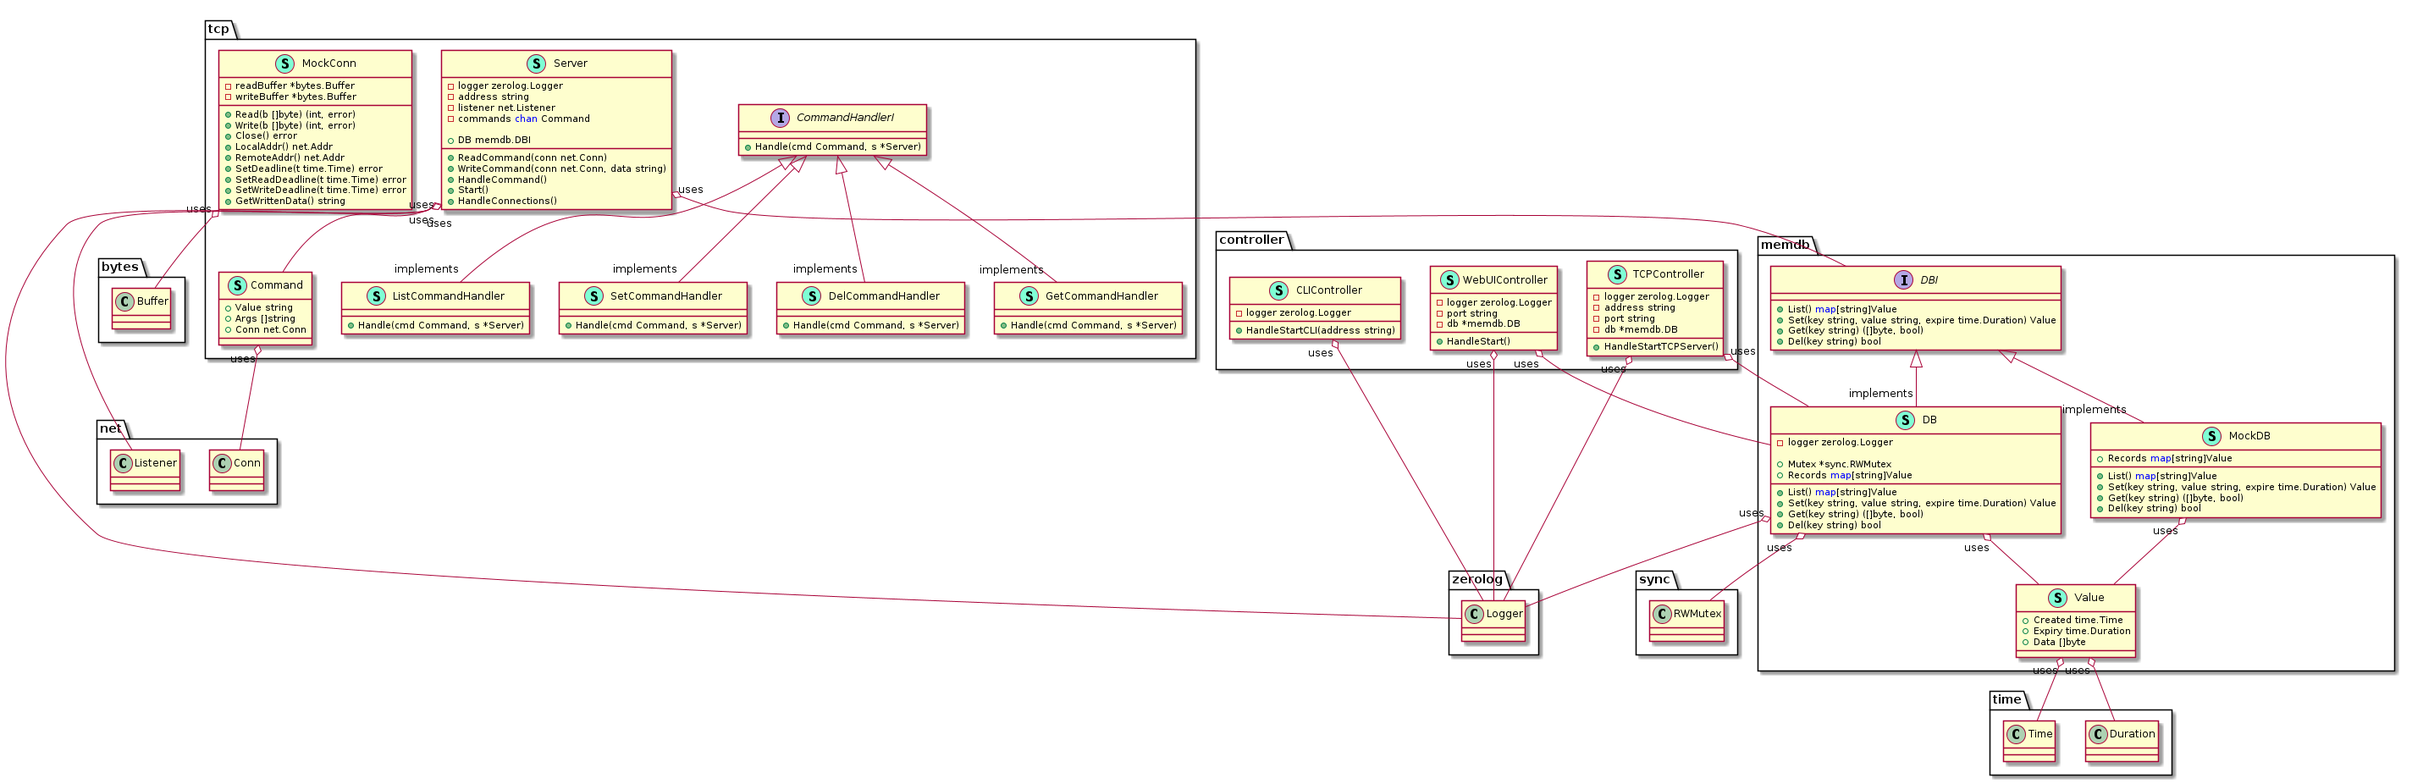
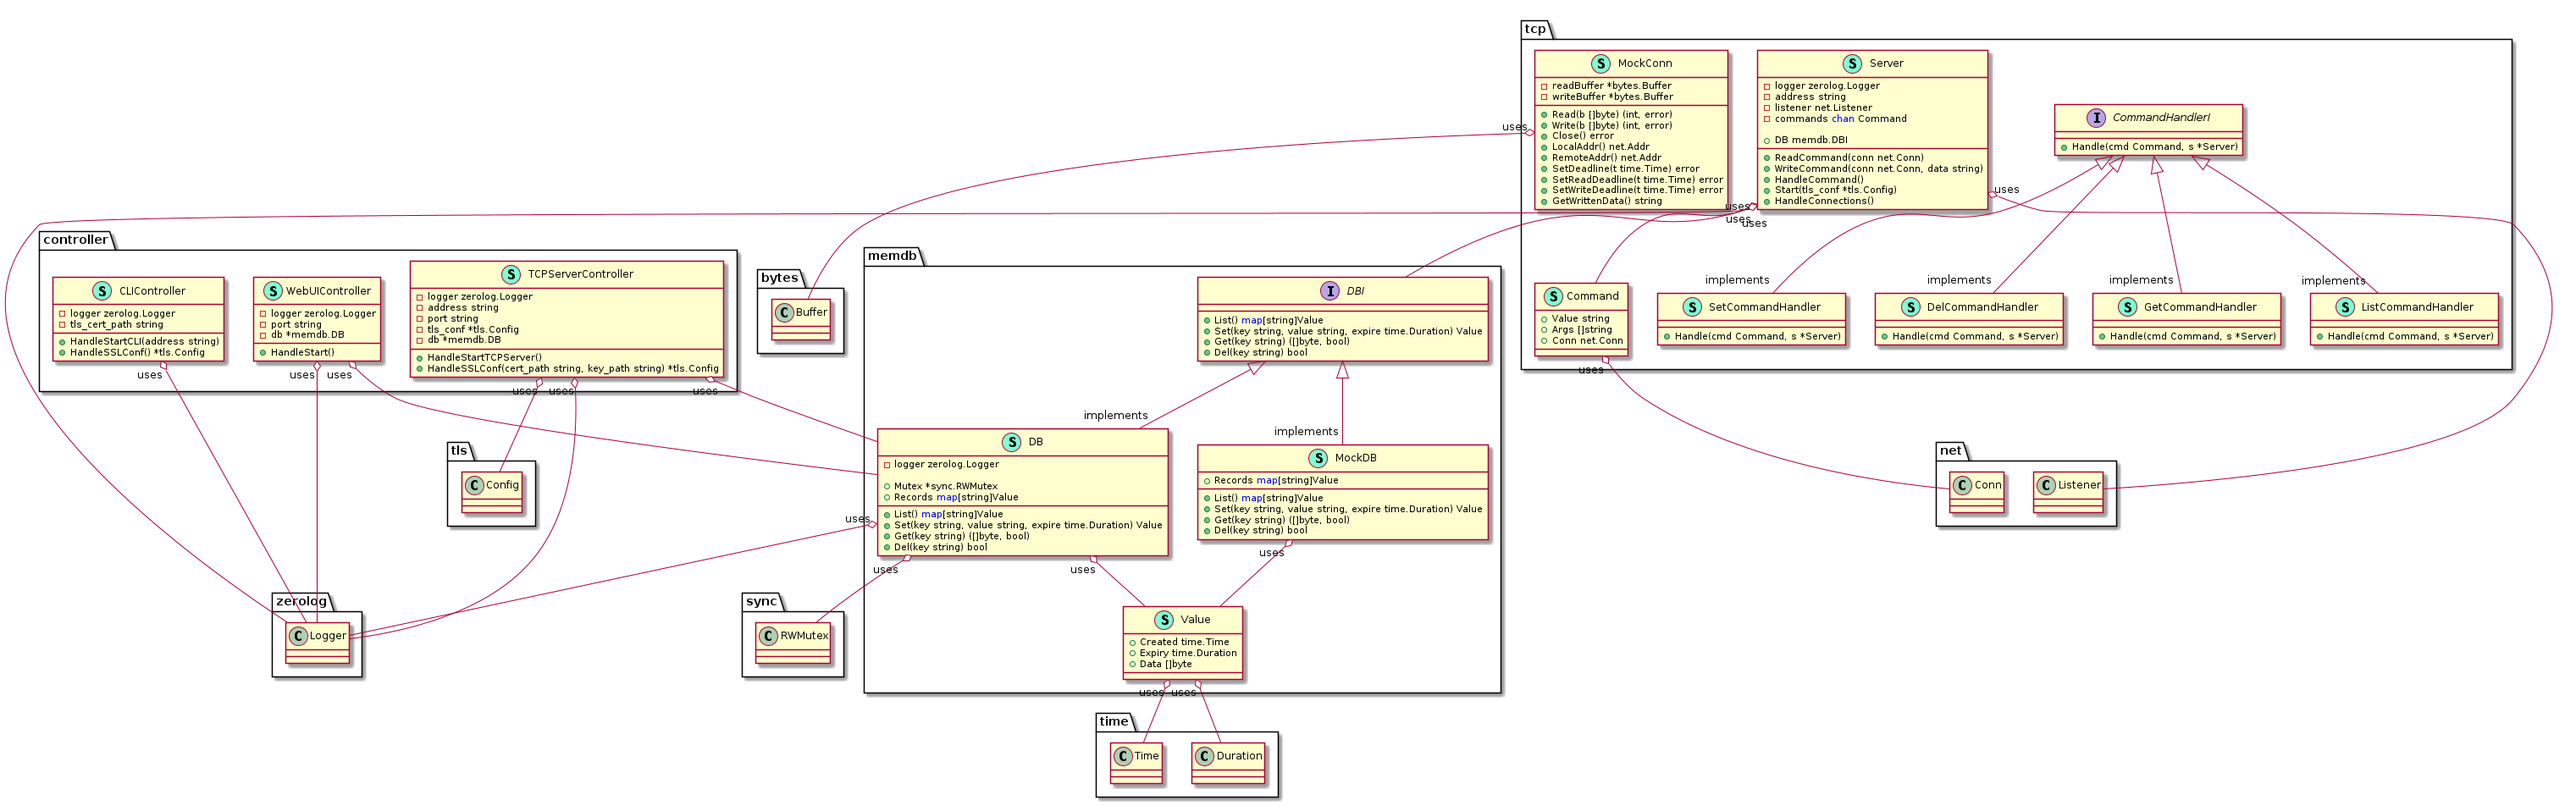
added TLS out of interest

diff --git a/internal/adapter/controller/cli_controller.go b/internal/adapter/controller/cli_controller.go
@@ -1,10 +1,11 @@
 package controller
 
 import (
+	"crypto/tls"
+	"crypto/x509"
 	"fmt"
 	"io"
 	"log"
-	"net"
 	"os"
 	"strings"
 
@@ -13,24 +14,27 @@ import (
 )
 
 type CLIController struct {
-	logger zerolog.Logger
+	logger        zerolog.Logger
+	tls_cert_path string
 }
 
-func NewCLIController(logger zerolog.Logger) CLIController {
+func NewCLIController(logger zerolog.Logger, tls_cert_path string) CLIController {
 	return CLIController{
-		logger: logger,
+		logger:        logger,
+		tls_cert_path: tls_cert_path,
 	}
 }
 
 func (c *CLIController) HandleStartCLI(address string) {
-	conn, err := net.Dial("tcp", address)
+	ssl_config := c.HandleSSLConf()
+
+	conn, err := tls.Dial("tcp", address, ssl_config)
 	if err != nil {
 		fmt.Printf("Failed to connect to server: %v\n", err)
 		os.Exit(1)
 	}
 	defer conn.Close()
 
-	// Create a new readline instance
 	rl, err := readline.NewEx(&readline.Config{
 		Prompt:          "> ",
 		HistoryFile:     "/tmp/readline.tmp",
@@ -44,7 +48,6 @@ func (c *CLIController) HandleStartCLI(address string) {
 	defer rl.Close()
 
 	for {
-		// Read input from the user
 		line, err := rl.Readline()
 		if err == readline.ErrInterrupt {
 			if len(line) == 0 {
@@ -58,55 +61,35 @@ func (c *CLIController) HandleStartCLI(address string) {
 			c.logger.Fatal().Err(err).Msg("Failed to read line")
 		}
 
-		// Trim whitespace and check for exit command
 		line = strings.TrimSpace(line)
 		if line == "exit" {
 			break
 		}
 
-		// Send the command to the TCP server
 		_, err = fmt.Fprintf(conn, "%s\n", line)
 		if err != nil {
 			log.Fatalf("Failed to send command: %v", err)
 		}
 
-		// Read the response from the server
 		response := make([]byte, 4096)
 		n, err := conn.Read(response)
 		if err != nil {
 			log.Fatalf("Failed to read response: %v", err)
 		}
 
-		// Print the server's response
 		fmt.Println(string(response[:n]))
 	}
+}
 
-	// reader := bufio.NewReader(os.Stdin)
-	// fmt.Println("Connected to server. Type commands:")
+func (c *CLIController) HandleSSLConf() *tls.Config {
+	certPool := x509.NewCertPool()
+	serverCert, err := os.ReadFile(c.tls_cert_path)
+	if err != nil {
+		c.logger.Fatal().Err(err).Msg("Cannot find TLS cert path")
+	}
+	certPool.AppendCertsFromPEM(serverCert)
 
-	// for {
-	// 	fmt.Print("> ")
-	// 	input, _ := reader.ReadString('\n')
-	// 	input = strings.TrimSpace(input)
-	// 	if input == "" {
-	// 		continue
-	// 	}
-	// 	if input == "exit" {
-	// 		break
-	// 	}
-
-	// 	_, err := conn.Write([]byte(input + "\n"))
-	// 	if err != nil {
-	// 		fmt.Printf("Failed to send command: %v\n", err)
-	// 		break
-	// 	}
-
-	// 	response, err := bufio.NewReader(conn).ReadString('\n')
-
-	// 	if err != nil {
-	// 		fmt.Printf("Failed to read response: %v\n", err)
-	// 		break
-	// 	}
-	// 	fmt.Println(strings.TrimSpace(response))
-	// }
+	return &tls.Config{
+		RootCAs: certPool,
+	}
 }

diff --git a/internal/adapter/controller/tcp_server_controller.go b/internal/adapter/controller/tcp_server_controller.go
@@ -1,0 +1,56 @@
+package controller
+
+import (
+	"crypto/tls"
+	"crypto/x509"
+	"fmt"
+	"os"
+
+	"github.com/gijsdb/go-mem-db/internal/memdb"
+	"github.com/gijsdb/go-mem-db/internal/tcp"
+	"github.com/rs/zerolog"
+)
+
+type TCPServerController struct {
+	logger   zerolog.Logger
+	address  string
+	port     string
+	tls_conf *tls.Config
+	db       *memdb.DB
+}
+
+func NewTCPServerController(logger zerolog.Logger, address string, port string, ssl_cert_path string, ssl_key_path string, db *memdb.DB) TCPServerController {
+	c := TCPServerController{
+		logger:  logger,
+		address: address,
+		port:    port,
+		db:      db,
+	}
+	c.tls_conf = c.HandleSSLConf(ssl_cert_path, ssl_key_path)
+
+	return c
+}
+
+func (c *TCPServerController) HandleStartTCPServer() {
+	s := tcp.NewServer(fmt.Sprintf("%s:%s", c.address, c.port), c.db, c.logger)
+	s.Start(c.tls_conf)
+}
+
+func (s *TCPServerController) HandleSSLConf(cert_path, key_path string) *tls.Config {
+	cert, err := tls.LoadX509KeyPair(cert_path, key_path)
+	if err != nil {
+		s.logger.Fatal().Err(err).Msg("server cannot load SSL key pair")
+	}
+
+	certPool := x509.NewCertPool()
+	serverCert, err := os.ReadFile("cert.pem")
+	if err != nil {
+		s.logger.Fatal().Err(err).Msg("server cannot read SSL cert")
+	}
+	certPool.AppendCertsFromPEM(serverCert)
+
+	return &tls.Config{
+		Certificates: []tls.Certificate{cert},
+		ClientCAs:    certPool,
+	}
+}

diff --git a/cmd/server/main.go b/cmd/server/main.go
@@ -18,13 +18,14 @@ func main() {
 
 	TCP_ADDRESS := viper.GetString("tcp.address")
 	TCP_PORT := viper.GetString("tcp.port")
-
 	WEB_UI_PORT := viper.GetString("web.port")
 	RUN_WEB_UI := viper.GetBool("web.run")
+	SSL_CERT_PATH := viper.GetString("ssl.cert_path")
+	SSL_KEY_PATH := viper.GetString("ssl.key_path")
 
 	db := memdb.NewDB(logger)
 
-	tcp_controller := controller.NewTCPController(logger, TCP_ADDRESS, TCP_PORT, db)
+	tcp_controller := controller.NewTCPServerController(logger, TCP_ADDRESS, TCP_PORT, SSL_CERT_PATH, SSL_KEY_PATH, db)
 
 	if RUN_WEB_UI {
 		go tcp_controller.HandleStartTCPServer()

diff --git a/internal/tcp/server.go b/internal/tcp/server.go
@@ -1,6 +1,7 @@
 package tcp
 
 import (
+	"crypto/tls"
 	"fmt"
 	"net"
 
@@ -25,8 +26,8 @@ func NewServer(address string, db memdb.DBI, logger zerolog.Logger) Server {
 	}
 }
 
-func (s *Server) Start() {
-	listener, err := net.Listen("tcp", s.address)
+func (s *Server) Start(tls_conf *tls.Config) {
+	listener, err := tls.Listen("tcp", s.address, tls_conf)
 	if err != nil {
 		panic(err)
 	}

diff --git a/cmd/cli/main.go b/cmd/cli/main.go
@@ -19,7 +19,8 @@ func main() {
 
 	TCP_ADDRESS := viper.GetString("tcp.address")
 	TCP_PORT := viper.GetString("tcp.port")
+	SSL_CERT_PATH := viper.GetString("ssl.cert_path")
 
-	controller := controller.NewCLIController(logger)
+	controller := controller.NewCLIController(logger, SSL_CERT_PATH)
 	controller.HandleStartCLI(fmt.Sprintf("%s:%s", TCP_ADDRESS, TCP_PORT))
 }
